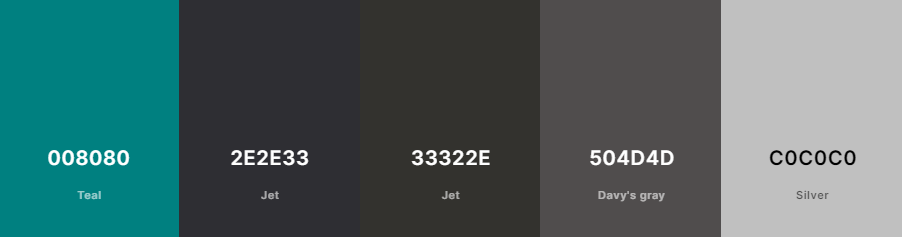
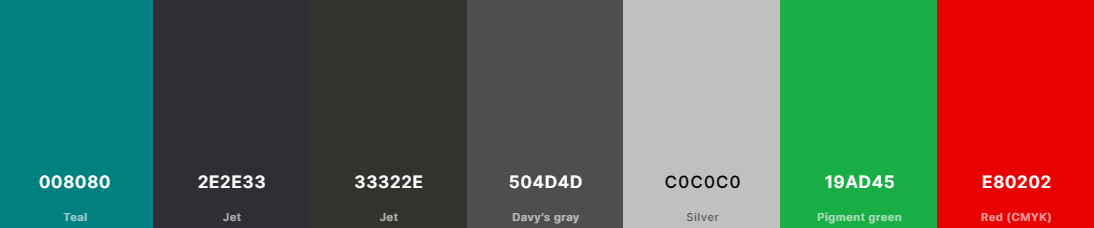
Update colour scheme

diff --git a/README.md b/README.md
@@ -23,13 +23,17 @@ On desktop and laptop there is more screen real-estate so the game board wwon't 
 
 ### Colour Scheme
 
+When selecting the colours for this project I wanted to give the user an authentic Minesweeper experience. The background colour was chosen to match the default wallpaper you would find on Windows 98. While I chose a selection of greys to resemble the original game as found on early Windows machines.
+
 - `#008080` used for background colour.
 - `#2E2E33` used for primary text.
 - `#33322E` used for primary highlights.
 - `#C0C0C0` used for secondary text.
 - `#504D4D` used for secondary highlights.
+- `#19ad45` used for game 'safe' areas.
+- `#E80202` used for game mines.
 
-I used [coolors.co](https://coolors.co/008080-2e2e33-33322e-504d4d-c0c0c0) to generate my colour palette.
+I used [coolors.co](https://coolors.co/008080-2e2e33-33322e-504d4d-c0c0c0-19ad45-e80202) to generate my colour palette.
 
 ![screenshot](documentation/colour-pallette.png)
 
